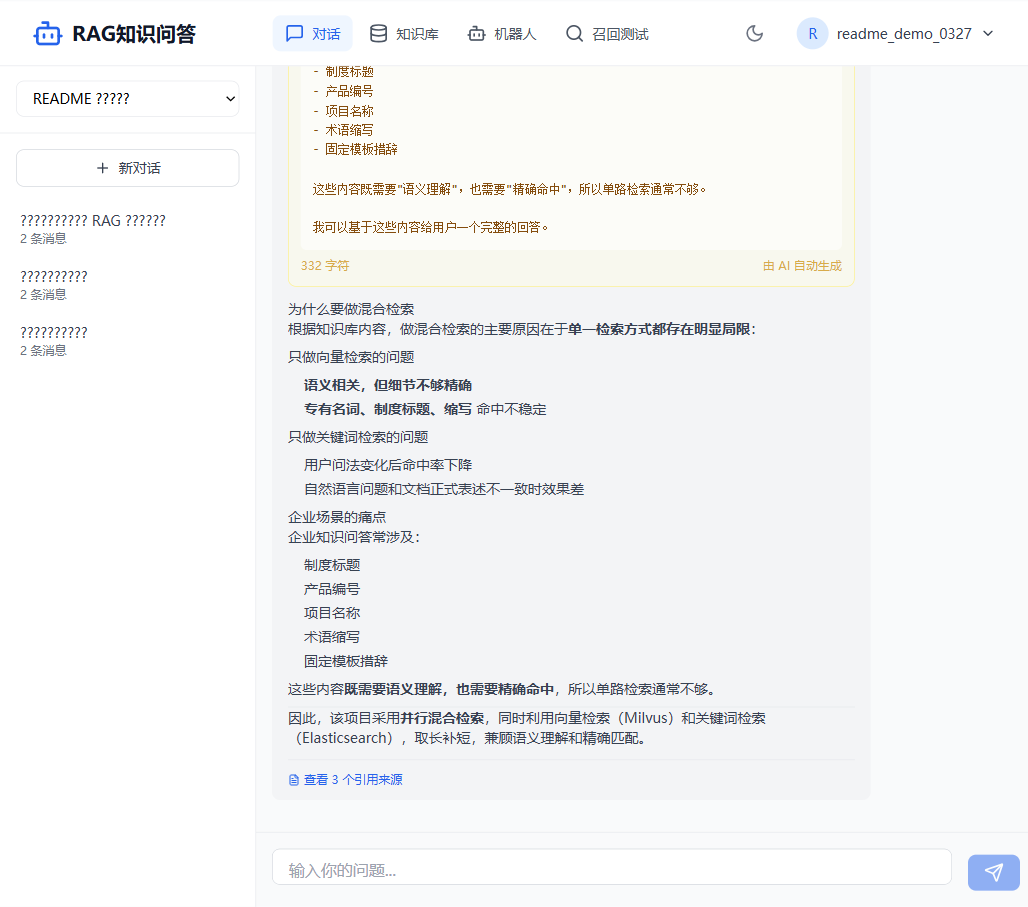
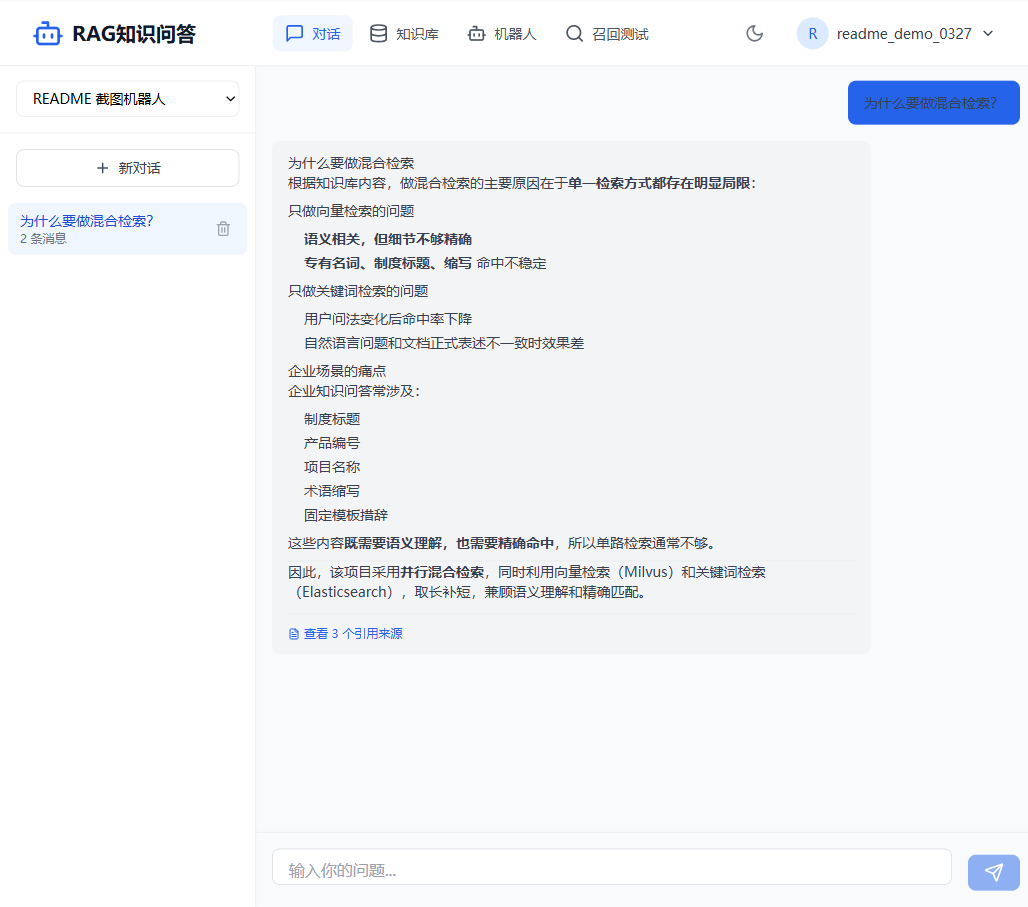
fix: repair demo unicode workflow

diff --git a/front/src/lib/api-client.ts b/front/src/lib/api-client.ts
@@ -8,7 +8,7 @@ const apiClient: AxiosInstance = axios.create({
   baseURL: `${API_BASE_URL}/api/v1`,
   timeout: 30000,
   headers: {
-    'Content-Type': 'application/json',
+    'Content-Type': 'application/json; charset=UTF-8',
   },
 });
 

diff --git a/backend/scripts/repair_demo_unicode.py b/backend/scripts/repair_demo_unicode.py
@@ -1,0 +1,217 @@
+#!/usr/bin/env python3
+from __future__ import annotations
+
+import argparse
+import json
+import re
+import sys
+import urllib.error
+import urllib.parse
+import urllib.request
+from dataclasses import dataclass
+from typing import Any
+
+
+BASE_URL_DEFAULT = "http://localhost:38084/api/v1"
+DEFAULT_USERNAME = "readme_demo_0327"
+DEFAULT_PASSWORD = "Demo123456!"
+DEFAULT_ROBOT_NAME = "README 截图机器人"
+DEFAULT_ROBOT_DESCRIPTION = "用于 README 截图与 MiniMax RAG 演示"
+DEFAULT_ROBOT_PROMPT = (
+    "你是 README 截图机器人，请基于知识库内容准确、简洁地回答用户问题，"
+    "并优先给出与 RAG 工作流、混合检索和 MiniMax 接入相关的说明。"
+)
+
+
+@dataclass
+class RepairSummary:
+    robot_id: int
+    sessions_updated: int
+    sessions_deleted: int
+
+
+def log(message: str) -> None:
+    print(f"[repair-demo-unicode] {message}", flush=True)
+
+
+def parse_args() -> argparse.Namespace:
+    parser = argparse.ArgumentParser(
+        description="Repair corrupted demo robot text and session titles using UTF-8 safe API requests."
+    )
+    parser.add_argument("--base-url", default=BASE_URL_DEFAULT, help="API base URL.")
+    parser.add_argument("--username", default=DEFAULT_USERNAME, help="Demo username.")
+    parser.add_argument("--password", default=DEFAULT_PASSWORD, help="Demo password.")
+    parser.add_argument("--robot-id", type=int, default=None, help="Target robot id. Defaults to the first robot.")
+    parser.add_argument("--robot-name", default=DEFAULT_ROBOT_NAME, help="Robot name after repair.")
+    parser.add_argument("--robot-description", default=DEFAULT_ROBOT_DESCRIPTION, help="Robot description after repair.")
+    parser.add_argument("--robot-prompt", default=DEFAULT_ROBOT_PROMPT, help="Robot system prompt after repair.")
+    parser.add_argument("--dry-run", action="store_true", help="Show actions without mutating data.")
+    return parser.parse_args()
+
+
+def request_json(
+    method: str,
+    url: str,
+    payload: dict[str, Any] | None = None,
+    token: str | None = None,
+) -> Any:
+    headers = {"Accept": "application/json"}
+    data = None
+
+    if payload is not None:
+        data = json.dumps(payload, ensure_ascii=False).encode("utf-8")
+        headers["Content-Type"] = "application/json; charset=utf-8"
+
+    if token:
+        headers["Authorization"] = f"Bearer {token}"
+
+    request = urllib.request.Request(url, data=data, headers=headers, method=method.upper())
+    try:
+        with urllib.request.urlopen(request, timeout=60) as response:
+            raw = response.read()
+            if not raw:
+                return None
+            return json.loads(raw.decode("utf-8"))
+    except urllib.error.HTTPError as exc:
+        body = exc.read().decode("utf-8", errors="replace")
+        raise RuntimeError(f"{method.upper()} {url} failed: {exc.code} {body}") from exc
+    except urllib.error.URLError as exc:
+        raise RuntimeError(f"{method.upper()} {url} failed: {exc}") from exc
+
+
+def contains_cjk(text: str) -> bool:
+    return bool(re.search(r"[\u4e00-\u9fff]", text))
+
+
+def is_placeholder_text(text: str | None) -> bool:
+    if not text:
+        return False
+    stripped = text.strip()
+    if not stripped:
+        return False
+    question_count = stripped.count("?")
+    if question_count >= max(3, len(stripped) // 3):
+        return True
+    return "\ufffd" in stripped
+
+
+def derive_title_from_messages(messages: list[dict[str, Any]]) -> str | None:
+    for message in messages:
+        if message.get("role") != "user":
+            continue
+
+        content = (message.get("content") or "").strip()
+        if not content:
+            continue
+        if is_placeholder_text(content):
+            return None
+
+        candidate = content[:50]
+        if len(content) > 50:
+            candidate += "..."
+        return candidate
+
+    return None
+
+
+def choose_robot(robots: list[dict[str, Any]], robot_id: int | None) -> dict[str, Any]:
+    if not robots:
+        raise RuntimeError("No robots found for the demo account.")
+
+    if robot_id is None:
+        return robots[0]
+
+    for robot in robots:
+        if int(robot["id"]) == robot_id:
+            return robot
+
+    raise RuntimeError(f"Robot {robot_id} was not found for the demo account.")
+
+
+def repair_demo_content(args: argparse.Namespace) -> RepairSummary:
+    log(f"logging in as {args.username}")
+    login_payload = {"username": args.username, "password": args.password}
+    login_result = request_json("POST", f"{args.base_url}/auth/login", payload=login_payload)
+    token = login_result["access_token"]
+
+    robots = request_json("GET", f"{args.base_url}/robots", token=token)["items"]
+    robot = choose_robot(robots, args.robot_id)
+    robot_id = int(robot["id"])
+    log(f"target robot_id={robot_id}")
+
+    robot_update_payload = {
+        "name": args.robot_name,
+        "system_prompt": args.robot_prompt,
+        "description": args.robot_description,
+    }
+    if args.dry_run:
+        log(f"would update robot {robot_id} -> {robot_update_payload['name']}")
+    else:
+        request_json("PUT", f"{args.base_url}/robots/{robot_id}", payload=robot_update_payload, token=token)
+        log(f"updated robot {robot_id} name/prompt/description")
+
+    sessions_response = request_json(
+        "GET",
+        f"{args.base_url}/chat/sessions?{urllib.parse.urlencode({'robot_id': robot_id, 'status_filter': 'active'})}",
+        token=token,
+    )
+    sessions = sessions_response["sessions"]
+
+    sessions_updated = 0
+    sessions_deleted = 0
+
+    for session in sessions:
+        title = session.get("title") or ""
+        if not is_placeholder_text(title):
+            continue
+
+        session_id = session["session_id"]
+        detail = request_json("GET", f"{args.base_url}/chat/sessions/{session_id}", token=token)
+        messages = detail.get("messages", [])
+        recovered_title = derive_title_from_messages(messages)
+
+        if recovered_title:
+            if args.dry_run:
+                log(f"would update session {session_id} title -> {recovered_title}")
+            else:
+                request_json(
+                    "PUT",
+                    f"{args.base_url}/chat/sessions/{session_id}",
+                    payload={"title": recovered_title},
+                    token=token,
+                )
+                log(f"updated session {session_id} title -> {recovered_title}")
+            sessions_updated += 1
+        else:
+            if args.dry_run:
+                log(f"would delete unrecoverable session {session_id}")
+            else:
+                request_json("DELETE", f"{args.base_url}/chat/sessions/{session_id}", token=token)
+                log(f"deleted unrecoverable session {session_id}")
+            sessions_deleted += 1
+
+    return RepairSummary(
+        robot_id=robot_id,
+        sessions_updated=sessions_updated,
+        sessions_deleted=sessions_deleted,
+    )
+
+
+def main() -> int:
+    args = parse_args()
+    try:
+        summary = repair_demo_content(args)
+    except Exception as exc:  # noqa: BLE001
+        print(f"[repair-demo-unicode] error: {exc}", file=sys.stderr)
+        return 1
+
+    log(
+        "completed "
+        f"(robot_id={summary.robot_id}, sessions_updated={summary.sessions_updated}, "
+        f"sessions_deleted={summary.sessions_deleted})"
+    )
+    return 0
+
+
+if __name__ == "__main__":
+    raise SystemExit(main())

diff --git a/docs/demo-data-utf8-repair.md b/docs/demo-data-utf8-repair.md
@@ -1,0 +1,81 @@
+# Demo Data UTF-8 Repair
+
+这份文档说明如何修复本地演示环境里因为编码问题产生的 `???` 文本，并给出后续创建中文演示数据时的安全做法。
+
+## 问题现象
+
+如果你在机器人名称、系统提示词或对话标题里看到：
+
+- `README ?????`
+- `??????????`
+- `?????????? RAG ??????`
+
+这通常不是前端渲染问题，而是数据在写入数据库之前就已经被替换成了问号。
+
+## 产生原因
+
+这类脏数据通常来自：
+
+- Windows 终端里手写 `curl.exe` JSON
+- PowerShell 中直接拼接中文 JSON 字符串
+- 请求头没有明确走 `application/json; charset=utf-8`
+
+一旦请求体在发送前已经被错误编码，后端收到的内容就会是 `?`，随后被原样写进 MySQL。
+
+## 推荐修复方式
+
+仓库已经提供了 UTF-8 安全的修复脚本：
+
+- Python 主脚本：[backend/scripts/repair_demo_unicode.py](../backend/scripts/repair_demo_unicode.py)
+- PowerShell 包装脚本：[backend/scripts/repair-demo-unicode.ps1](../backend/scripts/repair-demo-unicode.ps1)
+
+### 先看计划结果
+
+```powershell
+powershell -ExecutionPolicy Bypass -File .\backend\scripts\repair-demo-unicode.ps1 -DryRun
+```
+
+### 真正执行修复
+
+```powershell
+powershell -ExecutionPolicy Bypass -File .\backend\scripts\repair-demo-unicode.ps1
+```
+
+脚本会做三件事：
+
+1. 把 demo 机器人名称、描述和系统提示词改回正常中文。
+2. 扫描该 demo 机器人下的会话标题。
+3. 对 `???` 标题做处理：
+   - 如果第一条用户消息可恢复，就回填成正常标题。
+   - 如果整条会话本身也已经被写坏，就直接删除。
+
+## UTF-8 安全策略
+
+修复脚本内部不会手拼终端 JSON，而是统一使用：
+
+- `json.dumps(..., ensure_ascii=False).encode("utf-8")`
+- `Content-Type: application/json; charset=utf-8`
+
+PowerShell 包装脚本本身也会显式设置：
+
+- `InputEncoding = UTF-8`
+- `OutputEncoding = UTF-8`
+
+## 后续怎么避免再出现
+
+如果后续还需要通过脚本创建中文演示数据，建议遵循这两个原则：
+
+1. 优先用浏览器前端页面创建中文内容。
+2. 如果必须脚本调用 API，优先用 Python 或仓库内现成脚本，不要在 PowerShell 里直接手写中文 JSON 给 `curl.exe`。
+
+## 仓库里的同步改动
+
+本次还顺手统一了前端默认 JSON 请求头：
+
+- [front/src/lib/api-client.ts](../front/src/lib/api-client.ts)
+
+现在前端会显式发送：
+
+```text
+Content-Type: application/json; charset=UTF-8
+```

diff --git a/README.md b/README.md
@@ -153,6 +153,7 @@ powershell -ExecutionPolicy Bypass -File .\backend\scripts\stop-rag-stack.ps1
 - [docs/compose-troubleshooting.md](docs/compose-troubleshooting.md)
 - [docs/local-integration.md](docs/local-integration.md)
 - [docs/minimax-anthropic-setup.md](docs/minimax-anthropic-setup.md)
+- [docs/demo-data-utf8-repair.md](docs/demo-data-utf8-repair.md)
 
 ### 4. 手工开发模式
 
@@ -203,6 +204,14 @@ npm run dev
 更详细的接入说明、限制和排障见：
 
 - [docs/minimax-anthropic-setup.md](docs/minimax-anthropic-setup.md)
+- [docs/demo-data-utf8-repair.md](docs/demo-data-utf8-repair.md)
+
+如果你需要通过脚本修复或重建中文 demo 数据，推荐直接使用仓库里的 UTF-8 安全修复入口：
+
+```powershell
+powershell -ExecutionPolicy Bypass -File .\backend\scripts\repair-demo-unicode.ps1 -DryRun
+powershell -ExecutionPolicy Bypass -File .\backend\scripts\repair-demo-unicode.ps1
+```
 
 ---
 
@@ -287,6 +296,7 @@ powershell -ExecutionPolicy Bypass -File .\backend\scripts\local-integration.ps1
 - [docs/README.md](docs/README.md)
 - [docs/rag-workflow-hybrid-retrieval.md](docs/rag-workflow-hybrid-retrieval.md)
 - [docs/minimax-anthropic-setup.md](docs/minimax-anthropic-setup.md)
+- [docs/demo-data-utf8-repair.md](docs/demo-data-utf8-repair.md)
 
 ## RAG 教学文档
 

diff --git a/docs/minimax-anthropic-setup.md b/docs/minimax-anthropic-setup.md
@@ -127,3 +127,4 @@ https://api.minimaxi.com/anthropic/v1/messages
 - [rag-workflow-hybrid-retrieval.md](./rag-workflow-hybrid-retrieval.md)
 - [teaching/03-hybrid-retrieval.md](./teaching/03-hybrid-retrieval.md)
 - [local-integration.md](./local-integration.md)
+- [demo-data-utf8-repair.md](./demo-data-utf8-repair.md)

diff --git a/docs/README.md b/docs/README.md
@@ -22,6 +22,7 @@
 如果你要给 RAG 机器人接入外部大模型，可以从这里开始：
 
 - [minimax-anthropic-setup.md](./minimax-anthropic-setup.md)
+- [demo-data-utf8-repair.md](./demo-data-utf8-repair.md)
 
 ## 运维与联调
 
